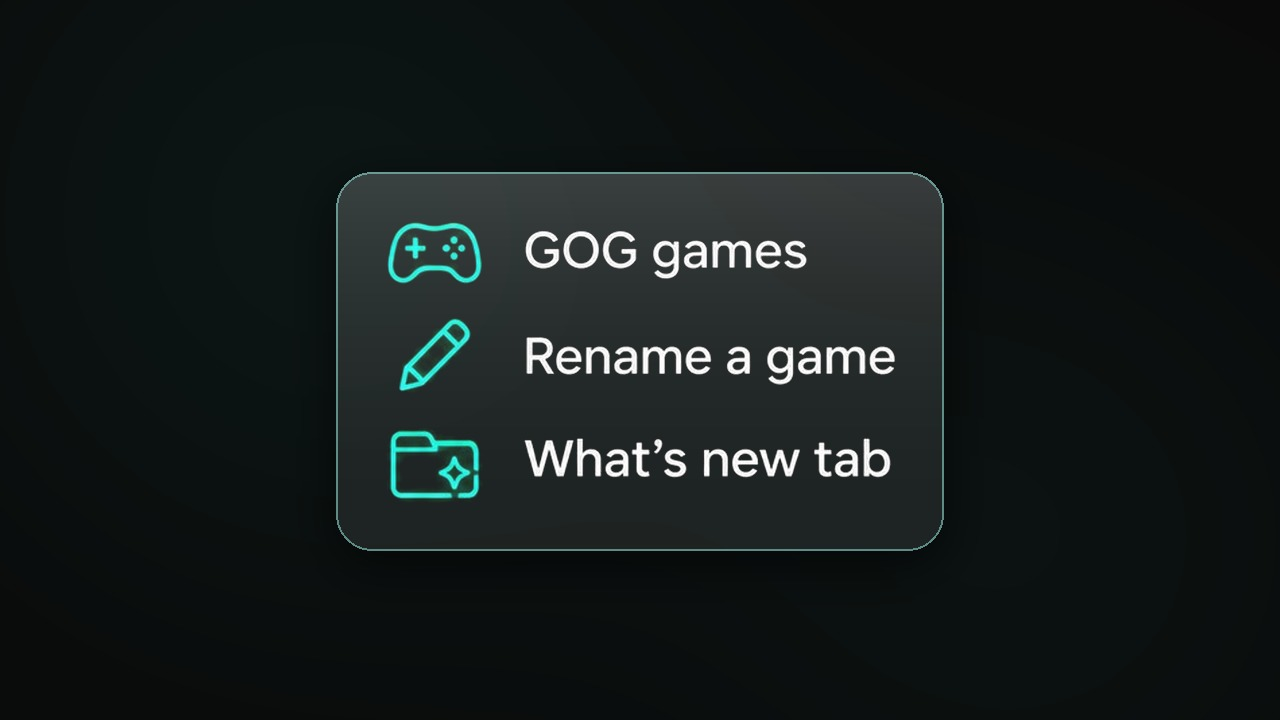
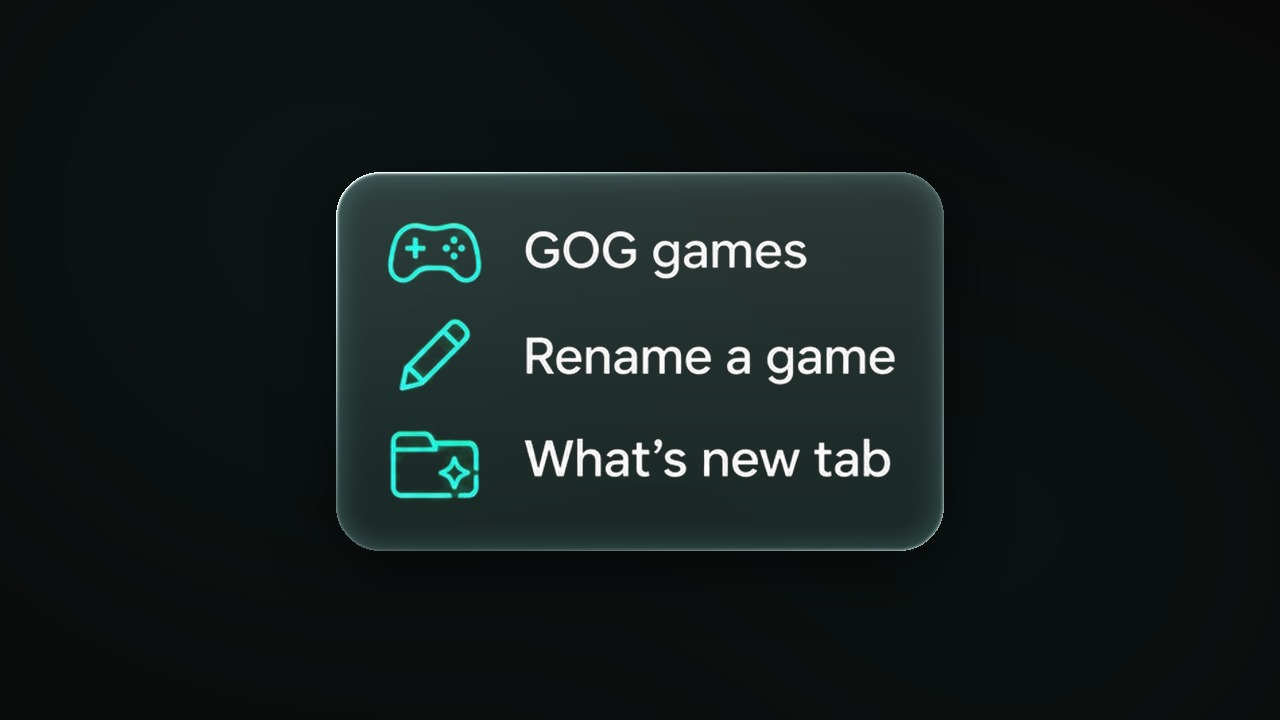
What's new pictures: liquid-glass panel (light rim, inner glow), same size

diff --git a/tools/whatsnew_glass.py b/tools/whatsnew_glass.py
@@ -19,18 +19,31 @@ base = Image.fromarray(np.clip(bg, 0, 255).astype("uint8"))
 ys, xs = np.where(a.max(2) > 40)
 pad = 48
 box = (xs.min() - pad, ys.min() - pad, xs.max() + pad, ys.max() + pad)
-blurred = base.filter(ImageFilter.GaussianBlur(30))
-mask = Image.new("L", (W, H)); ImageDraw.Draw(mask).rounded_rectangle(box, 36, fill=255)
-glass = Image.blend(blurred, Image.new("RGB", (W, H), (255, 255, 255)), 0.08)
-# a light sheen from the top of the panel
-sheen = np.zeros((H, W)); t = np.clip((y - box[1]) / (box[3] - box[1]), 0, 1); sheen = (1 - t) ** 2 * 28
-glass = Image.fromarray(np.clip(np.asarray(glass).astype(float) + sheen[..., None], 0, 255).astype("uint8"))
-shadow = Image.new("L", (W, H)); ImageDraw.Draw(shadow).rounded_rectangle((box[0], box[1] + 14, box[2], box[3] + 14), 36, fill=150)
-base = Image.composite(Image.new("RGB", (W, H)), base, shadow.filter(ImageFilter.GaussianBlur(24)))
-base = Image.composite(glass, base, mask)
-edge = Image.new("L", (W, H)); ImageDraw.Draw(edge).rounded_rectangle(box, 36, outline=255, width=2)
-edge_col = Image.new("RGB", (W, H), tuple(int(c) for c in (col * 0.5 + 127)))
-base = Image.composite(edge_col, base, edge.point(lambda v: v * 0.55))
+R = 44  # corner radius
+x0, y0, x1, y1 = box
+mask = Image.new("L", (W, H)); ImageDraw.Draw(mask).rounded_rectangle(box, R, fill=255)
+inside = np.asarray(mask).astype(float) / 255
+# soft shadow under the glass
+shadow = Image.new("L", (W, H)); ImageDraw.Draw(shadow).rounded_rectangle((x0, y0 + 18, x1, y1 + 18), R, fill=170)
+shadow = np.asarray(shadow.filter(ImageFilter.GaussianBlur(30))).astype(float) / 255 * (1 - inside)
+px = np.asarray(base).astype(float) * (1 - shadow[..., None] * 0.8)
+# liquid glass: a clear body that lifts what's behind it a little, brighter towards the top
+t = np.clip((y - y0) / (y1 - y0), 0, 1)
+body = 14 + 18 * (1 - t) ** 1.5
+px += (body * inside)[..., None]
+px += inside[..., None] * col * 0.05
+# distance from the edge, inside the shape, for the rim light
+dist = np.asarray(mask.filter(ImageFilter.GaussianBlur(3))).astype(float) / 255
+ring = np.clip(1 - np.abs(dist - 0.5) * 2, 0, 1) ** 2 * inside
+# specular rim: bright at the top-left and bottom-right, faint on the other two sides, like light round the edge of glass
+u = (x - x0) / (x1 - x0); v = (y - y0) / (y1 - y0)
+spec = np.clip(1.15 - (u + v), 0, 1) ** 1.5 + 0.55 * np.clip((u + v) - 1.2, 0, 1) ** 1.2 + 0.18
+px += (ring * spec * 210)[..., None]
+# an inner glow just inside the rim
+inner = np.asarray(mask.filter(ImageFilter.GaussianBlur(14))).astype(float) / 255
+glow = np.clip(1 - inner, 0, 1) * inside
+px += (glow * 30)[..., None] + glow[..., None] * col * 0.12
+base = Image.fromarray(np.clip(px, 0, 255).astype("uint8"))
 # the highlights on top (black = see-through)
 out = ImageChops.lighter(base, im)
 out.save(dst, quality=92)
